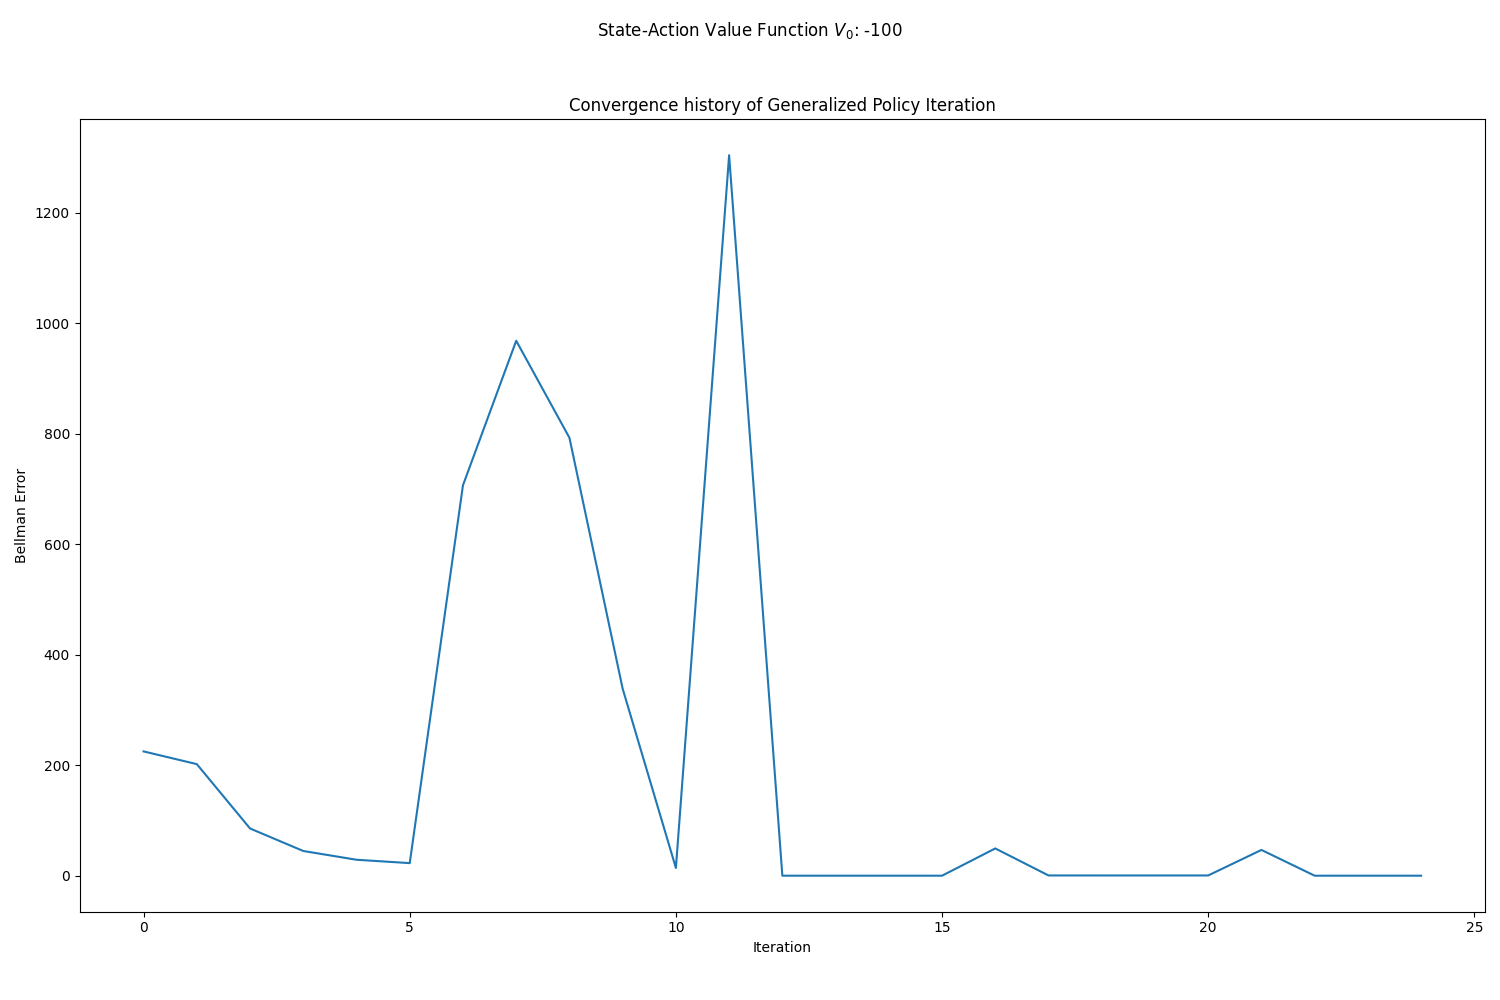
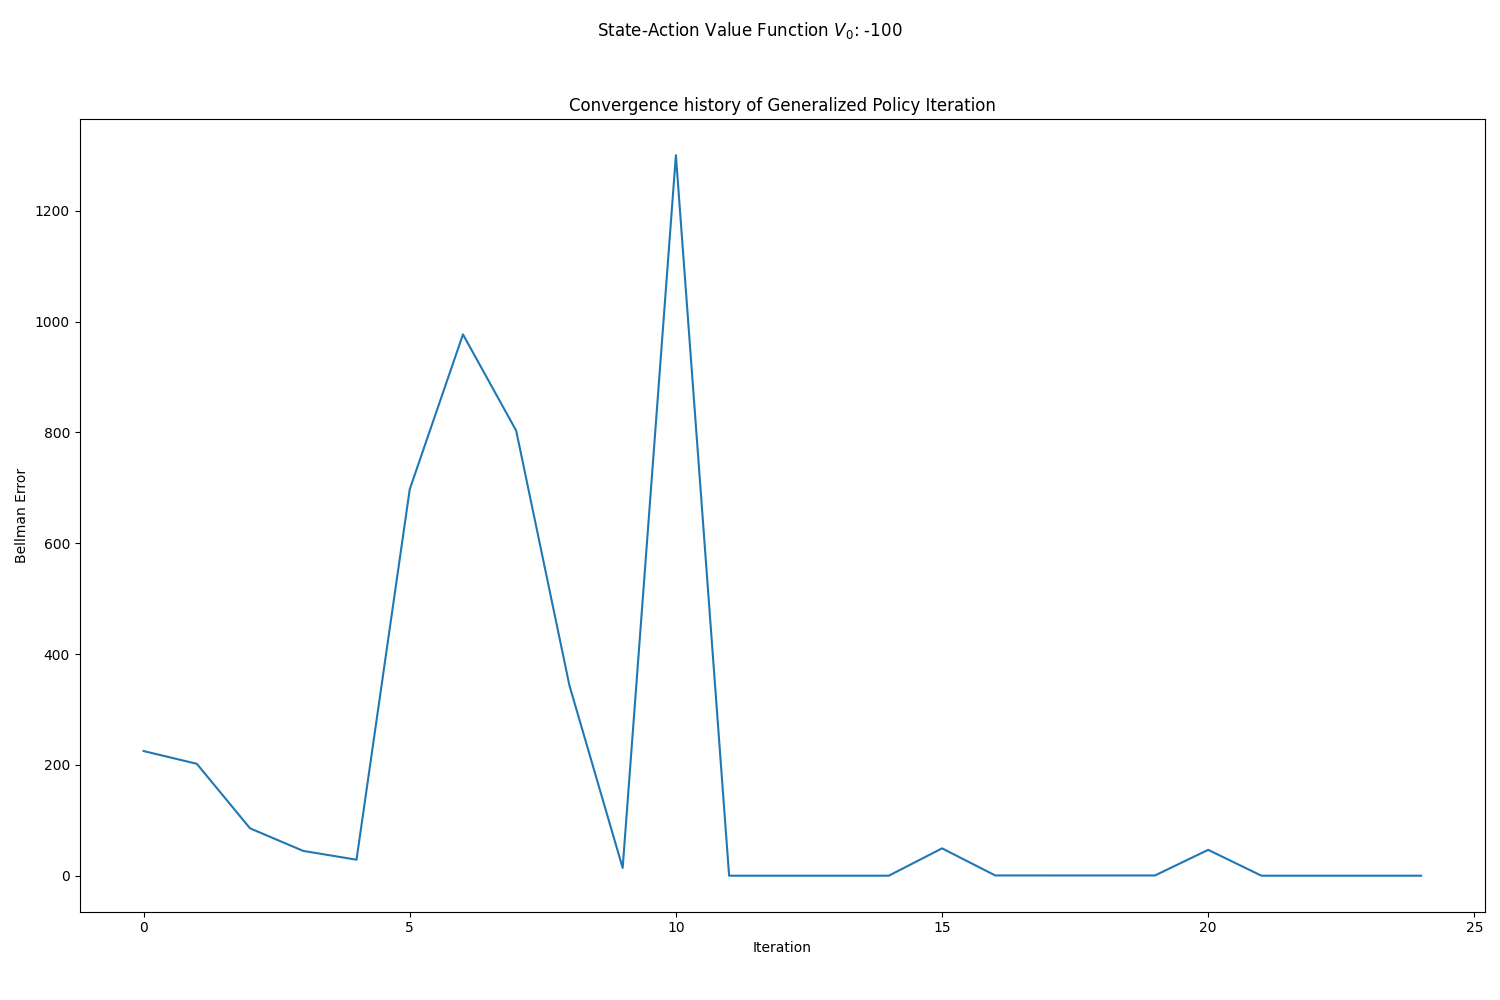
debug q2 done

diff --git a/Assignment 3/gym_gridworlds/q2.py b/Assignment 3/gym_gridworlds/q2.py
@@ -4,46 +4,39 @@ import matplotlib.pyplot as plt
 import seaborn as sns
 import pandas as pd
 
-def bellman_updates(V, Q, pi, R, P, T, gamma, num_evaluations):
-    v = V.copy()                                   # copying initial state value function
-    q = Q.copy()                                   # copying initial state action value function
-    P_V = np.multiply(np.dot(P, V), (1-T))         # P*V and removing the terminal state
-    V = np.sum(pi * (R + gamma * P_V),axis=1)      # updating state value function
-    Q = R + gamma * P_V                            # updating state-action value function
+def bellman_updates(Q, pi, R, P, T, gamma, num_evaluations):
+    q = Q.copy()                                    # copying initial state action value function
+    P_Q = np.dot(P, np.multiply(pi, Q).sum(-1))     # P*pi*Q 
+    Q = R + gamma * np.multiply(P_Q, (1-T))         # updating state-action value function
 
-    V_error = np.sum(np.abs(V - v))
     Q_error = np.sum(np.abs(Q - q))
 
     num_evaluations += 1
 
-    return V, Q, V_error, Q_error, num_evaluations
+    return Q, Q_error, num_evaluations
 
 
-def policy_evaluation(V, Q, pi, R, P, T, gamma, theta, history, num_evaluations):
+def policy_evaluation(Q, pi, R, P, T, gamma, theta, history, num_evaluations):
     Q_error = np.inf
     while Q_error > theta:
-        V, Q, V_error, Q_error, num_evaluations = bellman_updates(V, Q, pi, R, P, T, gamma, num_evaluations)
+        Q, Q_error, num_evaluations = bellman_updates(Q, pi, R, P, T, gamma, num_evaluations)
         history.append(Q_error)
 
-    return V, Q, history, num_evaluations
+    return Q, history, num_evaluations
 
 
-def greedy_policy(V, R, P, T, gamma):
-    Q = R + gamma * np.multiply(np.dot(P, V), (1-T))
-    pi = np.zeros((len(V), n_actions))
-
-    for s in range(len(V)):
-        max_actions = np.flatnonzero(Q[s] == np.max(Q[s]))
-        best_action = np.random.choice(max_actions)
-        pi[s, best_action] = 1
-    
-    return pi
-
-
-def policy_improvement(V, pi, R, P, T, gamma):
+def policy_improvement(Q, pi, R, P, T, gamma):
     policy_stable = True
     old = pi.copy()
-    pi = greedy_policy(V, R, P, T, gamma)
+
+    max_Q = np.max(Q, axis=-1)
+
+    pi = np.zeros((n_states, n_actions))
+    
+    for s in range(n_states):
+        best_actions = np.where(Q[s] == max_Q[s])[0]
+        chosen_action = np.random.choice(best_actions)
+        pi[s, chosen_action] = 1
     
     if not np.allclose(pi, old):
         policy_stable = False
@@ -51,30 +44,23 @@ def policy_improvement(V, pi, R, P, T, gamma):
     return pi, policy_stable
 
 
-def policy_iteration(V, Q, R, P, T, gamma, theta, history, num_evaluations):
+def policy_iteration(Q, R, P, T, gamma, theta, history, num_evaluations):
     pi = np.ones((n_states, n_actions)) / n_actions
     policy_stable = False
 
     while not policy_stable:
-        V, Q, history, num_evaluations = policy_evaluation(V, Q, pi, R, P, T, gamma, theta, history, num_evaluations)
-        pi, policy_stable = policy_improvement(V, pi, R, P, T, gamma)
+        Q, history, num_evaluations = policy_evaluation(Q, pi, R, P, T, gamma, theta, history, num_evaluations)
+        pi, policy_stable = policy_improvement(Q, pi, R, P, T, gamma)
 
-    return V, Q, pi, history, num_evaluations
-
-
-def optimality_update(s, V, R, P, T, gamma):
-    P_V = np.multiply(np.dot(P[s], V), (1-T[s]))
-    V_s = R[s] + gamma * P_V
-    return V_s
+    return Q, pi, history, num_evaluations
 
 
-def value_iteration(V, Q, R, P, T, gamma, theta, history, num_evaluations):
+def value_iteration(Q, R, P, T, gamma, theta, history, num_evaluations):
     while True:
         delta = 0
-        v = V.copy()
-        q = Q.copy()      
-        Q = R + gamma * np.multiply(np.dot(P, V), (1 - T))
-        V = np.max(Q, axis=1)
+        q = Q.copy() 
+        P_Q = np.max(np.dot(P, Q), -1)  
+        Q = R + gamma * np.multiply(P_Q, (1 - T))
 
         delta = max(delta, np.max(np.abs(Q - q)))
         history.append(np.max(np.abs(Q - q)))
@@ -84,28 +70,26 @@ def value_iteration(V, Q, R, P, T, gamma, theta, history, num_evaluations):
         if delta < theta:
             break
 
-    pi = np.ones((n_states, n_actions)) / n_actions
+    optimal_actions = np.argmax(Q, -1)
 
-    for s in range(n_states):
-        V_s = optimality_update(s, V, R, P, T, gamma)
-        best = np.argmax(V_s)
-        pi[s] = np.eye(n_actions)[best]
+    pi = np.zeros((n_states, n_actions))
+    pi[np.arange(n_states), optimal_actions] = 1
 
-    return V, Q, pi, history, num_evaluations
+    return Q, pi, history, num_evaluations
 
 
-def generalized_policy_iteration(V, Q, R, P, T, gamma, theta, history, num_evaluations, eval_steps=5):
+def generalized_policy_iteration(Q, R, P, T, gamma, theta, history, num_evaluations, eval_steps=5):
     pi = np.ones((n_states, n_actions)) / n_actions
     policy_stable = False
 
     while not policy_stable:
         for _ in range(eval_steps):
-            V, Q, V_error, Q_error, num_evaluations = bellman_updates(V, Q, pi, R, P, T, gamma, num_evaluations)
+            Q, Q_error, num_evaluations = bellman_updates(Q, pi, R, P, T, gamma, num_evaluations)
             history.append(Q_error)
 
-        pi, policy_stable = policy_improvement(V, pi, R, P, T, gamma)
+        pi, policy_stable = policy_improvement(Q, pi, R, P, T, gamma)
 
-    return V, Q, pi, history, num_evaluations
+    return Q, pi, history, num_evaluations
 
 
 def optimal_policy():
@@ -201,23 +185,20 @@ if __name__ == "__main__":
         fig3.suptitle(f"State-Action Value Function $V_0$: {init_value}")
 
         for i, gamma in enumerate(gammas):
-            V_PI_init = np.full(n_states, init_value)
             Q_PI_init = np.full((n_states, n_actions), init_value)
             history_PI = []
             num_evaluations_PI = 0
-            V_PI, Q_PI, pi_learnt_PI, history_PI, num_evaluations_PI = policy_iteration(V_PI_init, Q_PI_init, R, P, T, gamma, theta, history_PI, num_evaluations_PI)
+            Q_PI, pi_learnt_PI, history_PI, num_evaluations_PI = policy_iteration(Q_PI_init, R, P, T, gamma, theta, history_PI, num_evaluations_PI)
             evaluations_PI.append(num_evaluations_PI)
 
             # if np.allclose(pi_learnt_PI, pi_opt):
             #     print("optimal policy found using policy iteration")
-
             assert np.allclose(pi_learnt_PI, pi_opt)
 
-            V_VI_init = np.full(n_states, init_value)
             Q_VI_init = np.full((n_states, n_actions), init_value)
             history_VI = []
             num_evaluations_VI = 0
-            V_VI, Q_VI, pi_learnt_VI, history_VI, num_evaluations_VI = value_iteration(V_VI_init, Q_VI_init, R, P, T, gamma, theta, history_VI, num_evaluations_VI)
+            Q_VI, pi_learnt_VI, history_VI, num_evaluations_VI = value_iteration(Q_VI_init, R, P, T, gamma, theta, history_VI, num_evaluations_VI)
             evaluations_VI.append(num_evaluations_VI)
             
             # if np.allclose(pi_learnt_VI, pi_opt):
@@ -225,11 +206,10 @@ if __name__ == "__main__":
 
             np.allclose(pi_learnt_VI, pi_opt)
 
-            V_GPI_init = np.full(n_states, init_value)
             Q_GPI_init = np.full((n_states, n_actions), init_value)
             history_GPI = []
             num_evaluations_GPI = 0
-            V_GPI, Q_GPI, pi_learnt_GPI, history_GPI, num_evaluations_GPI = generalized_policy_iteration(V_GPI_init, Q_GPI_init, R, P, T, gamma, theta, history_GPI, num_evaluations_GPI)
+            Q_GPI, pi_learnt_GPI, history_GPI, num_evaluations_GPI = generalized_policy_iteration(Q_GPI_init, R, P, T, gamma, theta, history_GPI, num_evaluations_GPI)
             evaluations_GPI.append(num_evaluations_GPI)
 
             # if np.allclose(pi_learnt_GPI, pi_opt):
